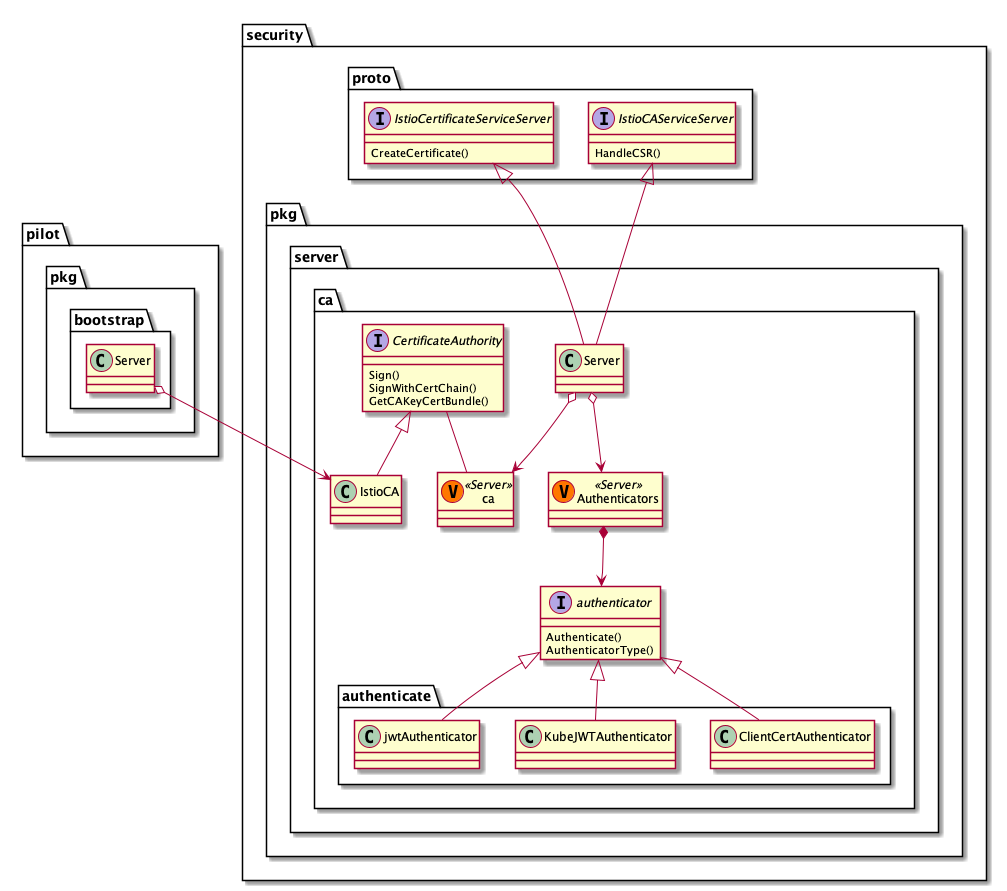
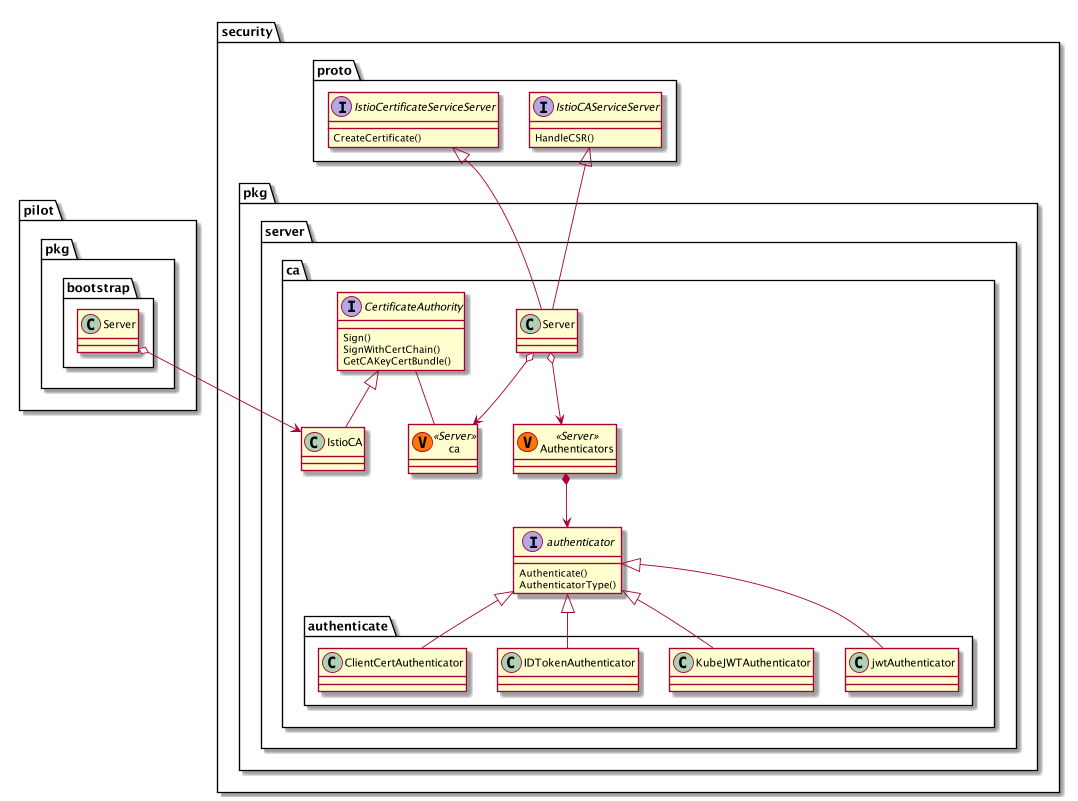
Update istio/code/certificate/caserver.md

Changed region(s): [[0.0, 0.0, 1.0, 0.9988]]

diff --git a/istio/code/certificate/caserver.md b/istio/code/certificate/caserver.md
@@ -8,4 +8,102 @@ description: >
 
 {{< figure src="../caserver_data_1.png" link="../caserver_data_1.png" target="_blank" >}}
 
+## 一、对象模型 ##
+
+在Istiod内部有一个名为CA Server服务的组件，用来提供证书签名的服务。Pilot Agent内部的SDS Server会向CA Server发起签名请求，CA Server会针对请求进行应答。
+
+SDS Server和CA Server之间进行通信时的接口名为`IstioCertificateServiceServer`，它只包含了一个函数`CreateCertificate()`，一方面SDS Server会通过gRPC调用这个函数，另一方面在CA Server中有一个名为`pkg.server.ca.Server`的对象会实现`IstioCertificateServiceServer`这个Interface中的`CreateCertificate()`函数以便对请求进行应答。
+
+除了实现`IstioCertificateServiceServer`这个Interface之外，`pkg.server.ca.Server`还实现了另外一个Interface，名为`IstioCAServiceServer`，其中的函数名为`HandleCSR()`，这个Interface和函数已经被标记为过时的，我们在后续的文章中将不会对其进行分析，不过为了保持代码完整性，仍然把它包含在对象模型的图中。
+
+现在回头看`pkg.server.ca.Server`
+
+```
+type Server struct {
+    ...
+	Authenticators []authenticator
+	ca             CertificateAuthority
+    ...
+}
+```
+
+其中有两个核心字段
+
+- `Authenticators`
+
+  第一个是`Authenticators`，它是`authenticator`类型的数组，在与SDS Server进行交互时，CA Server通过这个字段来对客户端的身份进行验证。
+
+  `authenticator`是一个Interface类型，代码中包含了四种实现
+
+  |认证类型|说明|
+  |--|--|
+  |ClientCertAuthenticator    |客户端证书认证|
+  |IDTokenAuthenticator       |通过OpenID Connect (OIDC) 对客户端请求中的`Bearer`值进行认证，用于google公有云|
+  |KubeJWTAuthenticator       |通过kubeclient向Kubernetes API Server发起验证请求，验证请求中的JWT Token|
+  |jwtAuthenticator           |通过OpenID Connect (OIDC) 向Kubernetes API Server验证请求中的JWT Token，主要用于Istiod部署于Kubernetes集群之外的场景|
+
+  `authenticator`定义如下
+
+  ```
+  type authenticator interface {
+      Authenticate(ctx context.Context) (*authenticate.Caller, error)
+      AuthenticatorType() string
+  }
+  ```
+
+  其中的`AuthenticatorType()`返回字符串表示的类型，`Authenticate()`进行真正的验证工作。
+
+- `ca`
+
+  `ca`字段的类型为`CertificateAuthority`
+
+  ```
+  // CertificateAuthority contains methods to be supported by a CA.
+  type CertificateAuthority interface {
+      // Sign generates a certificate for a workload or CA, from the given CSR and TTL.
+      // TODO(myidpt): simplify this interface and pass a struct with cert field values instead.
+      Sign(csrPEM []byte, subjectIDs []string, ttl time.Duration, forCA bool) ([]byte, error)
+      // SignWithCertChain is similar to Sign but returns the leaf cert and the entire cert chain.
+      SignWithCertChain(csrPEM []byte, subjectIDs []string, ttl time.Duration, forCA bool) ([]byte, error)
+      // GetCAKeyCertBundle returns the KeyCertBundle used by CA.
+      GetCAKeyCertBundle() util.KeyCertBundle
+  }
+  ```
+
+  CA Server在处理SDS Server的请求时，就是通过其中的`Sign()`对客户端的证书签名请求进行签名生成证书，然后再返回给客户端。
+
+  这个Interface中的另一个函数`SignWithCertChain()`用于CA Server的服务器端证书签名，即CA Server对外提供 服务时，客户端需要对CA Server进行身份验证，因此CA Server也需要配置好服务器端证书，这个证书就是使用`SignWithCertChain()`进行签署的。
+
+  这个Interface中的最后一个函数`GetCAKeyCertBundle()`用来返回根证书、私钥、证书、证书链等等证书实体对象，为了方便CA Server在内部将这些证书对象整合成为一个对象`KeyCertBundle`，然后通过`GetCAKeyCertBundle()`将它们一起返回。这个函数和`Sign()`以及`SignWithCertChain()`一起使用
+
+一个名为`IstioCA`结构实现了`CertificateAuthority`接口，因此在`pkg.server.ca.Server`结构中的`ca`字段实际上就是一个`IstioCA`结构。
+
+```
+// IstioCA generates keys and certificates for Istio identities.
+type IstioCA struct {
+    ...
+	keyCertBundle util.KeyCertBundle
+	rootCertRotator *SelfSignedCARootCertRotator
+}
+```
+
+
+其中有两个重要成员
+
+- keyCertBundle，为`util.KeyCertBundle`类型，把相关证书都绑定到一起，这个整体的对象提供了一些接口
+- rootCertRotator，为`*SelfSignedCARootCertRotator`类型，如果是自签名证书的话这个值为空，否则是一个轮询对象，会周期性地更新相关证书
+
+另外，在签名关于Pilot Agent代码分析的文章中提到了Pilot Agent中核心对象是`pilot.pkg.bootstrap.Server`，它内部也有一个`ca`对象
+
+```
+type Server struct {
+    ...
+	ca               *ca.IstioCA
+}
+```
+
+这个ca对象就是`IstioCA`结构，通过这种方式将CA Server与Pilot Agent主进程联系起来。
+
+## 二、运行过程 ##
+
 TODO
